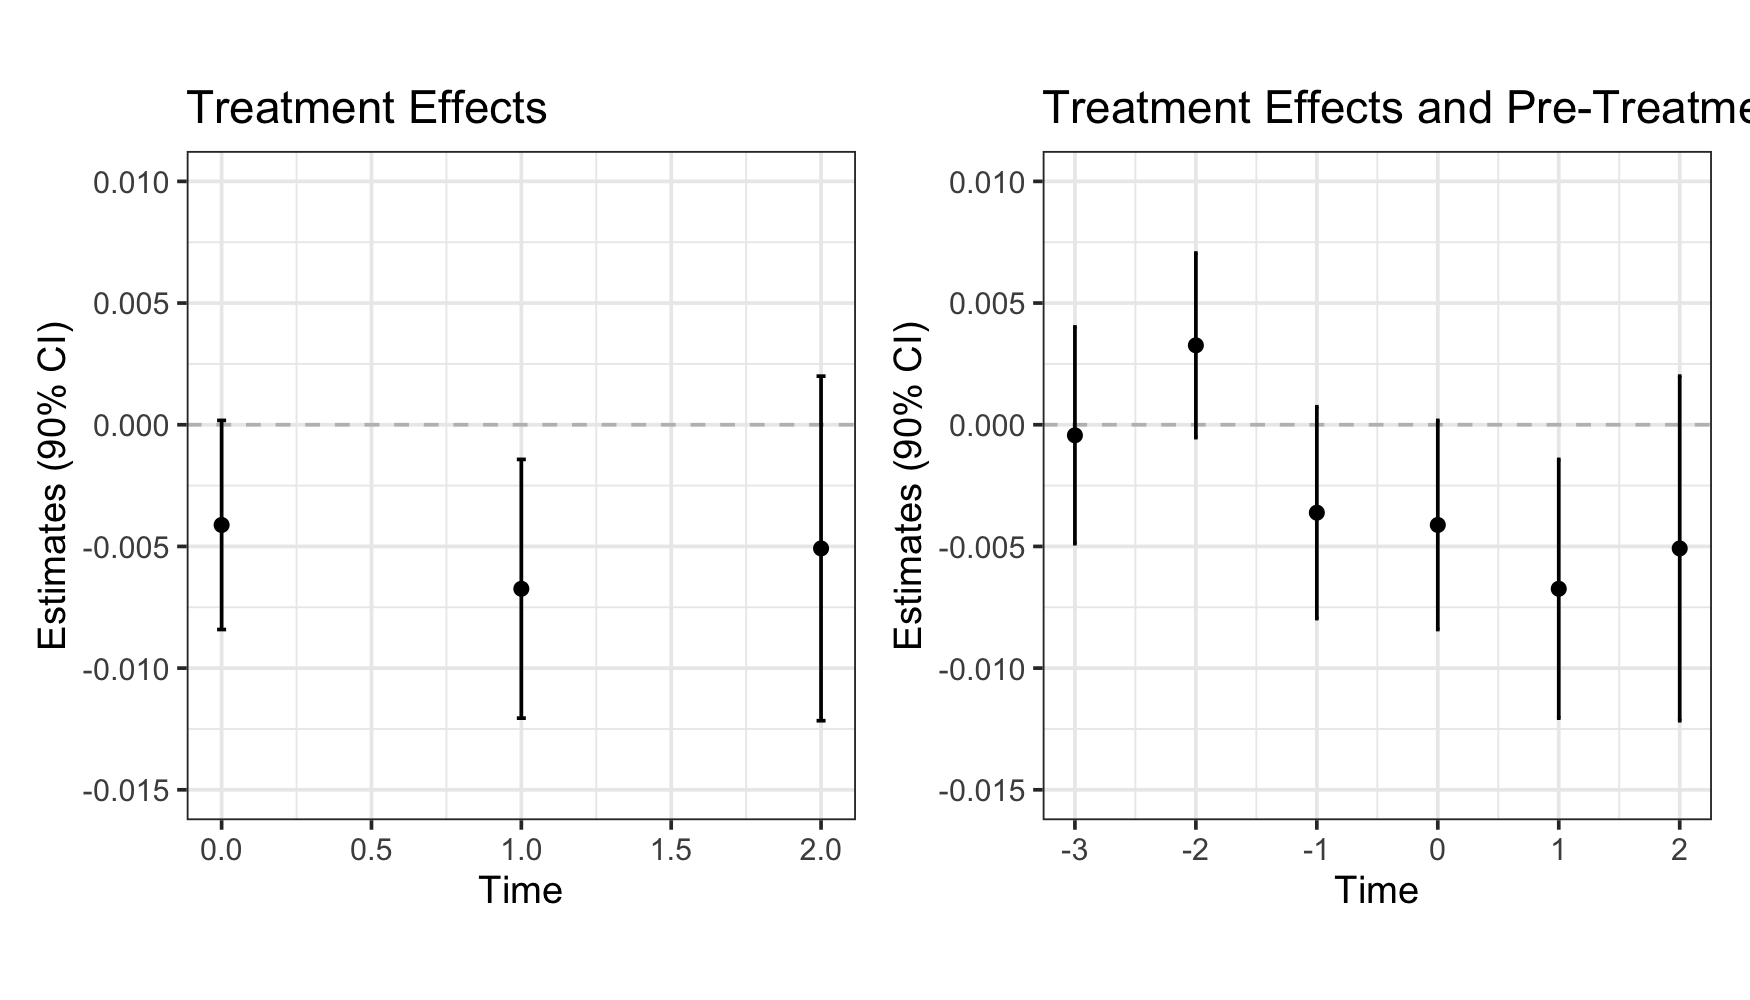
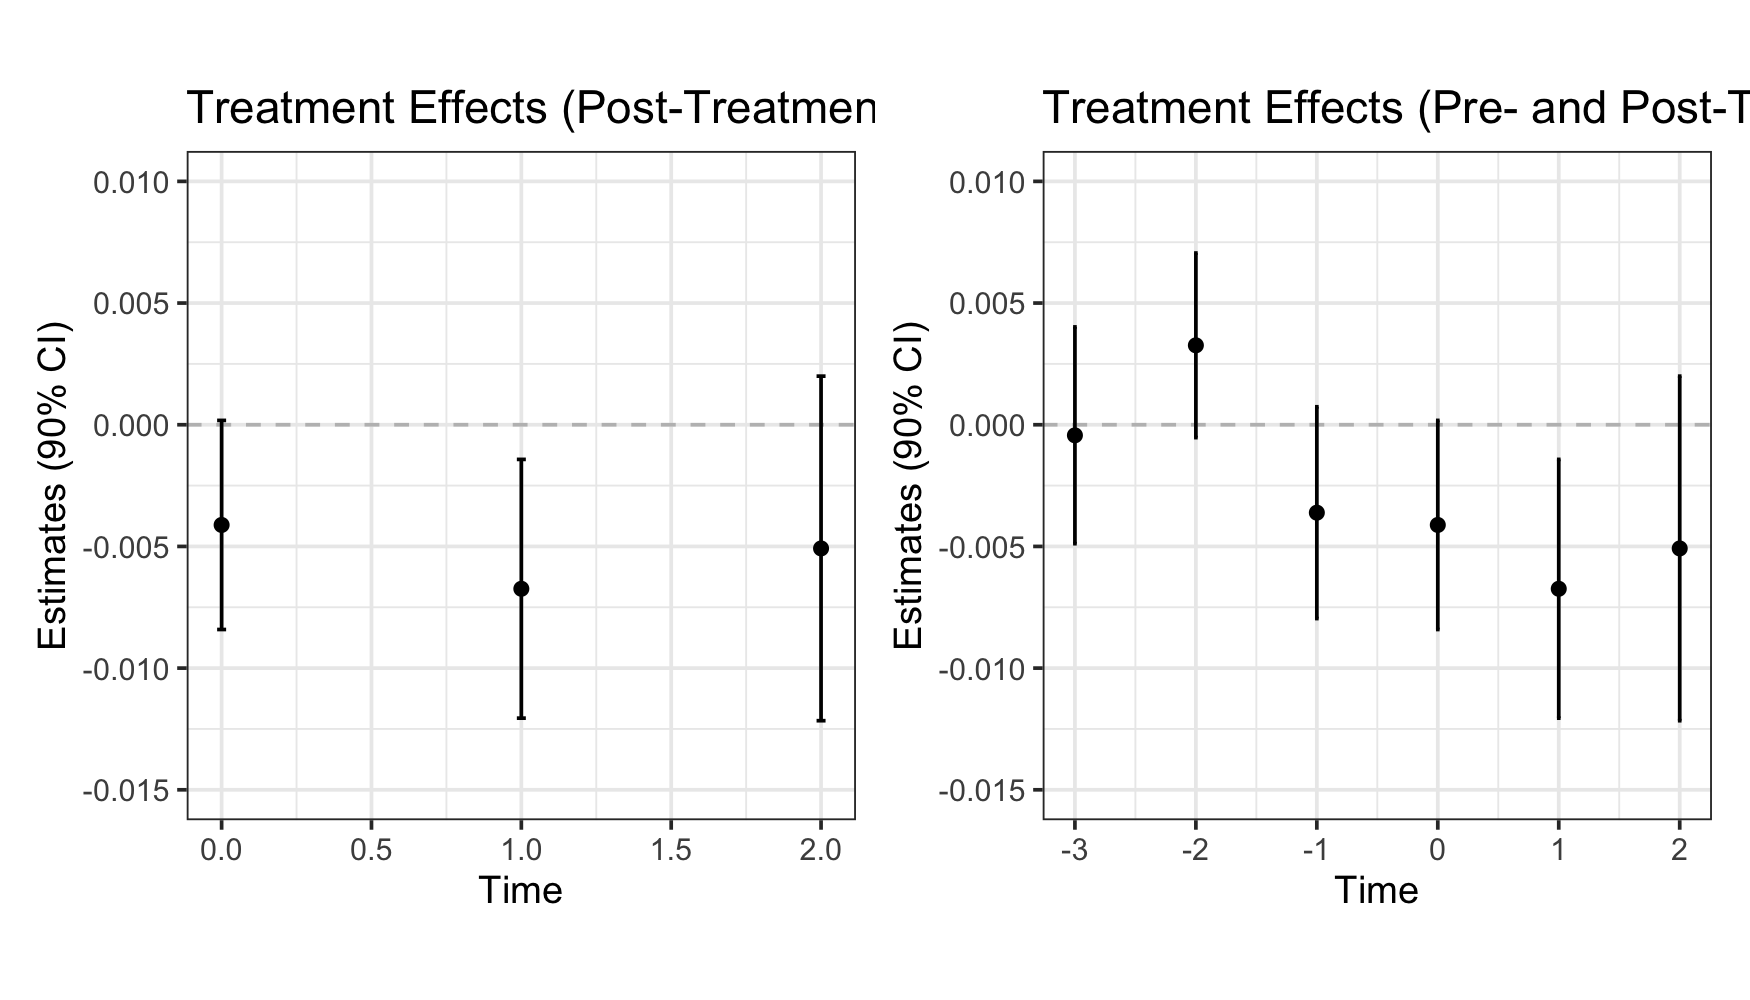
Update figures

Changed region(s): [[0.8023, 0.093, 1.0, 0.124], [0.3086, 0.093, 0.4937, 0.124]]

diff --git a/README.md b/README.md
@@ -152,11 +152,14 @@ pre_post_plot <- plot(fit_panel, check_panel)
 
 ## show the plot side-by-side
 require(patchwork)
-(post_plot + ggplot2::theme(aspect.ratio=1) +
-  ggplot2::ylim(-0.015, 0.01) + ggplot2::labs(title = "Treatment Effects")) +
-(pre_post_plot + ggplot2::theme(aspect.ratio=1) +
+(post_plot +
+  ggplot2::theme(aspect.ratio=1) +
   ggplot2::ylim(-0.015, 0.01) +
-  ggplot2::labs(title = "Treatment Effects and Pre-Treatment Tests"))
+  ggplot2::labs(title = "Treatment Effects (Post-Treatment)")) +
+(pre_post_plot +
+  ggplot2::theme(aspect.ratio=1) +
+  ggplot2::ylim(-0.015, 0.01) +
+  ggplot2::labs(title = "Treatment Effects (Pre- and Post-Treatment)"))
 ```
 
 <img src="man/figures/README-unnamed-chunk-5-1.png" width="100%" style="display: block; margin: auto;" />
